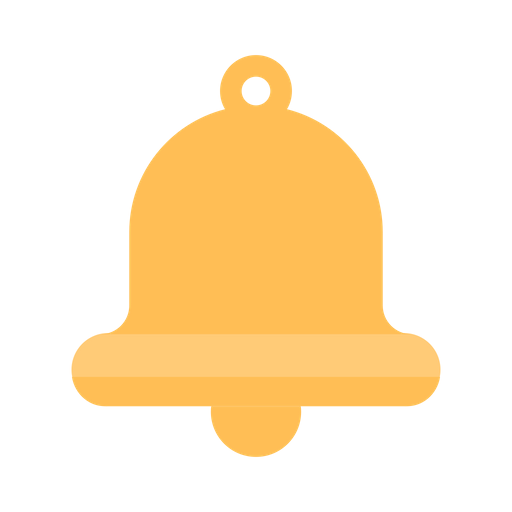
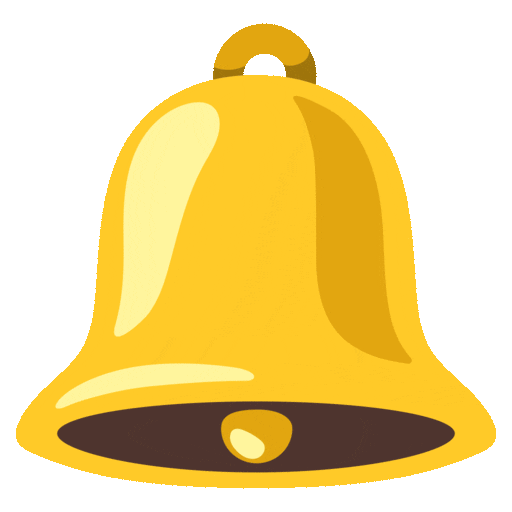
bellllll

diff --git a/content.js b/content.js
@@ -9,75 +9,39 @@ if (document.readyState !== 'complete') {
     jiraSearch();
 }
 
+
+function jiraSearch() {
+    console.log('Window loaded');
+    chrome.storage.local.get(['notifyMode']).then((result) => {
+        console.log("Notify mode active?", result.notifyMode.modeActive);
+        if (result.notifyMode.modeActive) {
+            try{
+                updateHTML();
+            } catch (e) {
+                console.error("Could not finish updating page content: ", e)
+            }
+            
+            notifyMode();
+        } else {
+            console.log('Notify mode not active. Redirecting to default page...');
+        }
+    });
+}
+
+
+
+
 function notifyMode() {
     console.log('Entering notifyMode function');
+
+    // Variable to track if notification has already been sent
+    var notificationSent = false;
 
     var timeoutId;
     var observer;
     var refreshInterval = 30000; // How long it takes for it to recheck for new tickets
-    var originalTitle = document.title;
-    var notifyModeTitle = 'Tab is in Notify Mode';
-    var toggleTitle = false; // Flag to toggle between original and notify mode titles
-    var toggleTitleInterval; // Variable to store the interval ID for title toggling
-    
 
-    function toggleTitleText() {
-        document.title = toggleTitle ? originalTitle : notifyModeTitle;
-        toggleTitle = !toggleTitle;
-    }
-
-    function processSearchResults() {
-        console.log('Processing search results...');
-
-        // Process the search results here
-        var liElements = document.querySelectorAll('.issue-list li');
-        chrome.runtime.sendMessage({ type: 'resultfound', data: liElements.length });
-
-        chrome.storage.local.get(["exclusion"], function (result) {
-            if (result.exclusion) {
-                console.log('Retrieved exclusion:', result.exclusion);
-                exclusionAmount = result.exclusion;
-                if (liElements.length > exclusionAmount) {
-                    console.log(`New ticket found (${liElements.length} > ${exclusionAmount})`);
-                    document.title = 'ALERT: New Ticket Found!';
-
-                    // Prompt the user with a popup
-                    var userResponse = false;
-
-                    function closePrompt() {
-                        clearInterval(promptInterval);
-
-                        if (userResponse) {
-                            chrome.storage.local.set({ "notifyMode": { modeActive: false } });
-                            window.location.href = document.getElementsByClassName('splitview-issue-link')[0].href;
-                        } else {
-                            console.log('User declined to continue or the timeout expired.');
-                        }
-                    }
-
-                    // Display the prompt and handle user response
-                    var promptInterval = setInterval(function () {
-                        userResponse = window.confirm('A new ticket has been found. Would you like to open the latest ticket? NOTE: This will end notify mode.');
-                        closePrompt();
-                    }, 100);
-
-                    // Clear the title toggling interval if a new ticket is found
-                    // bell.svg
-
-                    clearInterval(toggleTitleInterval);
-                } else {
-                    console.log('No new tickets found');
-                    // Reset the toggleTitle flag if no new ticket is found
-                    toggleTitle = false;
-                    // Clear the title toggling interval
-                    clearInterval(toggleTitleInterval);
-                    // Start the interval for title toggling if not already started
-                    toggleTitleInterval = setInterval(toggleTitleText, 2000);
-                }
-            }
-        });
-    }
-
+    // Initialize the observer here
     observer = new MutationObserver(function (mutations) {
         mutations.forEach(function (mutation) {
             if (mutation.addedNodes.length > 0) {
@@ -92,25 +56,72 @@ function notifyMode() {
     if (elements.length > 0) {
         if (document.getElementsByClassName('issue-list')[0].getElementsByTagName('li').length === 0) {
             observer.observe(elements[0], { childList: true, subtree: true });
-            // Clear the title toggling interval
-            clearInterval(toggleTitleInterval);
-            // Start the interval for title toggling if not already started
-            toggleTitleInterval = setInterval(toggleTitleText, 2000);
         } else {
             console.log('Issue list already populated');
             processSearchResults();
         }
     } else {
-        
-        
         console.log('No results container found');
     }
+
+    function processSearchResults() {
+        
+        console.log('Processing search results...');
+        // Process the search results here
+        var liElements = document.querySelectorAll('.issue-list li');
+
+        chrome.storage.local.get(["exclusion"], function (result) {
+            if (result.exclusion) {
+                console.log('Retrieved exclusion:', result.exclusion);
+                exclusionAmount = result.exclusion;
+                if (liElements.length > exclusionAmount && !notificationSent) {
+                    console.log(`New ticket found (${liElements.length} > ${exclusionAmount})`);
+
+                    // Send a message to the background script
+                    chrome.runtime.sendMessage({ type: 'resultfound' });
+                    var audio = new Audio(chrome.runtime.getURL('notif1.mp3 '));
+                    audio.play();
+
+                    // Set the notificationSent flag to true
+                    notificationSent = true;
+
+                    // Prompt the user with a popup
+                    var userResponse = false;
+                    
+                    // Prompt the user with a popup
+                    var userResponse = false;
+
+                    function closePrompt() {
+                        clearInterval(promptInterval);
+
+                        if (userResponse) {
+                            // Set the notificationSent flag to true
+
+                            chrome.storage.local.set({ "notifyMode": { modeActive: false } });
+                            window.location.href = document.getElementsByClassName('splitview-issue-link')[0].href;
+                        } else {
+                            console.log('User declined to continue or the timeout expired.');
+                        }
+                    }
+
+                    // Display the prompt and handle user response
+                    var promptInterval = setInterval(function () {
+                        userResponse = window.confirm('A new ticket has been found. Would you like to open the latest ticket? NOTE: This will end notify mode.');
+                        closePrompt();
+                    }, 100);
+                } else {
+                    console.log('No new tickets found or notification already sent');
+                }
+            }
+        });
+    }
+
+    
 
     // Set the refresh interval outside the if condition
     setInterval(function () {
         console.log('Refreshing page...');
         // Clear all intervals and timeouts
-        clearInterval(toggleTitleInterval);
         clearTimeout(timeoutId);
         location.reload(true);
     }, refreshInterval);
@@ -121,40 +132,12 @@ function notifyMode() {
             console.log('Page is visible, triggering search results processing...');
             // Page is visible, trigger the search results processing
             processSearchResults();
-        }
-    });
-}
-
-function jiraSearch() {
-    console.log('Window loaded');
-    chrome.storage.local.get(['notifyMode']).then((result) => {
-        console.log("Notify mode active?", result.notifyMode.modeActive);
-        if (result.notifyMode.modeActive) {
-            try{
-                updateHTML();
-            } catch {}
-            
-            notifyMode();
         } else {
-            // window.location.href = 'https://jira.benco.com/issues/?jql=project = BEN AND status = Untriaged AND assignee in (EMPTY)'
-            console.log('Notify mode not active. Redirecting to default page...');
+            console.error("Could not process result: Page did not load in alloted time.")
         }
     });
 }
 
-function updateHTML() {
-    document.querySelector(".no-results.no-results-message").style.backgroundImage = `url(${chrome.runtime.getURL('bell.svg')})`;
-    document.getElementById("header").remove();
-    document.getElementById("navigator-sidebar").remove();
-    document.getElementsByClassName("issue-search-header")[0].remove();
-    document.getElementsByClassName("navigator-sidebar collapsed")[0].remove();
-    document.querySelector(".no-results.no-results-message h2").innerHTML = "You are in notify mode. You will hear a ding when we find a ticket.";
-    document.querySelector(".no-results.no-results-message p").innerHTML = 'Nothing to see here.';
-    document.querySelector(".navigator-content.empty-results").style.display = "flex";
-    document.querySelector(".navigator-content.empty-results").style.alignItems = "center";
-    document.querySelector(".navigator-content.empty-results").style.justifyContent = "center";
-    document.querySelectorAll('[rel="shortcut icon"]')[0].href = chrome.runtime.getURL('icon.png');
-}
 
 function jiraBrowse() {
     // Get the div with the ID customfield-panel-1
@@ -163,6 +146,32 @@ function jiraBrowse() {
     var div1 = document.querySelector('.module.toggle-wrap');
     div1.insertAdjacentHTML('afterend', `<div class="module toggle-wrap"><div class="mod-header"><button class="aui-button toggle-title" aria-label="Jira+" aria-controls="Jira+-module" aria-expanded="true" resolved=""><svg xmlns="http://www.w3.org/2000/svg" width="14" height="14"><g fill="none" fill-rule="evenodd"><path d="M3.29175 4.793c-.389.392-.389 1.027 0 1.419l2.939 2.965c.218.215.5.322.779.322s.556-.107.769-.322l2.93-2.955c.388-.392.388-1.027 0-1.419-.389-.392-1.018-.392-1.406 0l-2.298 2.317-2.307-2.327c-.194-.195-.449-.293-.703-.293-.255 0-.51.098-.703.293z" fill="#344563"></path></g></svg></button><h4 class="toggle-title" id="details-module-label">Jira+</h4><ul class="ops"></ul></div><div class= "mod-content"><div id="customfieldmodule"><div class="aui-tabs horizontal-tabs" id="customfield-tabs" role="application"><div class=" active-pane"> <ul class="property-list"> <li id="rowForcustomfield_12210" class="item"> <div class="wrap"> <strong title="Account Number" class="name"> <label for="customfield_12210">Ticket History:</label> </strong> <div data-fieldtype="textfield" class="value"> <a id="ticket-history" href='https://jira.benco.com/issues/?jql=project = BEN AND "Account Number" ~ "${acctNum}" ORDER BY created DESC'>Click Here</a> </div> </div> </li> <li id="rowForcustomfield_12210" class="item"> <div class="wrap"> <strong title="Account Number" class="name"> <label for="customfield_12210">Placeholder</label> </strong> <div data-fieldtype="textfield" class="value"> placeholder </div> </div> </li> <li id="rowForcustomfield_12210" class="item"> <div class="wrap"> <strong title="Account Number" class="name"> <label for="customfield_12210">Placeholder</label> </strong> <div data-fieldtype="textfield" class="value"> placeholder </div> </div> </li> <li id="rowForcustomfield_12210" class="item"> <div class="wrap"> <strong title="Account Number" class="name"> <label for="customfield_12210">Place holder</label> </strong> <div data-fieldtype="textfield" class="value"> placeholder </div> </div> </li>   </ul> </div></div></div></div></div>`);
     document.getElementById('ticket-history').onclick = function(){chrome.storage.local.set({ "notifyMode": { modeActive: false } });}
+}
+
+function updateHTML() {
+    document.getElementsByClassName("issue-search-header")[0].remove();
+    document.getElementById("header").remove();
+    document.getElementById("navigator-sidebar").remove();
+    document.getElementsByClassName("navigator-sidebar collapsed")[0].remove();
 
 
+
+    var results = document.getElementsByClassName("simple-issue-list"); // Check if there are search results
+    console.log(results.length)
+    if (results.length === 0) {
+        document.querySelector(".no-results.no-results-message").style.backgroundImage = `url(${chrome.runtime.getURL('bell.png')})`;
+        document.querySelector(".no-results.no-results-message h2").innerHTML = "You are in notify mode. You will hear a ding when we find a ticket.";
+        document.querySelector(".no-results.no-results-message p").innerHTML = 'Nothing to see here.';
+        document.querySelector(".navigator-content.empty-results").style.display = "flex";
+        document.querySelector(".navigator-content.empty-results").style.alignItems = "center";
+        document.querySelector(".navigator-content.empty-results").style.justifyContent = "center";
+        document.querySelectorAll('[rel="shortcut icon"]')[0].href = chrome.runtime.getURL('icon.png')
+    } else {
+        document.getElementsByClassName("inline-issue-create-container")[0].remove();
+        document.getElementsByClassName("pagination-view")[0].remove();
+        document.getElementsByClassName("detail-panel")[0].remove();
+        document.getElementsByClassName("ui-sidebar")[0].remove();
+        document.getElementsByClassName("search-results")[0].insertAdjacentHTML("afterend", '<div class="no-results no-results-message" style="background-image: url(&quot;chrome-extension://nfelnemkdibpebjbbmeloldodgelgiel/bell.gif&quot;); margin-top: 10%;"><h2>We found a ticket!!</h2><p class="no-results-hint">Time to wake up.</p></div>')
+        console.log("pushing")
+    }
 }

diff --git a/background.js b/background.js
@@ -1,96 +1,49 @@
-// Function to listen for notify message
-function listenForNotify() {
-    console.log('BG: Listening for notify message');
-    chrome.runtime.onMessage.addListener(function (message, sender, sendResponse) {
-        if (message.type === 'notify') {
-            console.log('BG: Notify button was pressed');
-            var notifyProperties = { modeActive: null, notifyTab: null};
-            notifyProperties.modeActive = true;
-            notifyProperties.notifyTab = message.data;
-            console.log('BG: Notify properties', notifyProperties);
-            chrome.storage.local.set({ "notifyMode": notifyProperties });
-            console.log(message.data)
-            chrome.browserAction.setIcon({ path: 'icon.png', tabId: message.data})
-            notifyMode();
+chrome.runtime.onMessage.addListener(function (message, sender, sendResponse) { // 
+    if (message.type === 'notify') {
+        console.log('BG: Notify button was pressed');
+        var notifyProperties = { modeActive: null, notifyTab: null};
+        notifyProperties.modeActive = true;
+        notifyProperties.notifyTab = message.data;
+        console.log('BG: Notify properties', notifyProperties);
+        chrome.storage.local.set({ "notifyMode": notifyProperties });
+        console.log(message.data)
+        try {
+            chrome.browserAction.setIcon({ path: 'icon.png', tabId: message.data});
+        } catch (e) {
+            console.error(e);
         }
-    });
-}
-
-// Function to handle notify mode
-function notifyMode() {
-    let exclusionAmount = 0; // Amount of tickets to exclude from the new ticket notifier. I.e. if amount is 3, 4 tickets must be in to notify
-    console.log('BG: Entered notify mode');
-    // Listen for resultfound message
-    chrome.runtime.onMessage.addListener((message, sender, sendResponse) => {
-        if (message.type === 'resultfound') {
-            let resultLength = message.data;
-            console.log(`BG: Result found! ${resultLength} tickets`);
-            chrome.storage.local.get(["exclusion"], function (result) {
-                if (result.exclusion) {
-                    console.log('BG: Retrieved exclusion:', result.exclusion);
-                    exclusionAmount = result.exclusion;
-                    if (resultLength > exclusionAmount) {
-                        console.log(`BG: ${resultLength} tickets found, and ${exclusionAmount} ticket(s) excluded. Creating notification and playing sound.`);
-                        createNotification();
-                        playSound();
-                    }
-                }
-            });
-        }
-    });
-}
-
-// Function to create notification
-function createNotification() {
-    let opt = {
-        type: "basic",
-        title: "Jira+",
-        message: "A new ticket is in!",
-        iconUrl: "icon.png"
-    };
-    chrome.notifications.create("notificationName", opt, function () {
-        console.log('BG: Notification created');
-        // Placeholder comment: Handle notification creation callback if needed
-    });
-}
-
-// Function to play sound
-async function playSound(source = 'notif1.mp3') {
-    // Retrieve stored volume value from long term storage
-    chrome.storage.local.get(["volume"], function (result) {
-        let volume = result.volume || 0.5; // Set default volume to 0.5 if not found in storage
-        console.log(`BG: Volume set to ${volume}`);
-        // Create the offscreen document if it doesn't already exist
-        createOffscreen().then(() => {
-            console.log('BG: Sending message to play sound');
-            chrome.runtime.sendMessage({ play: { source, volume } });
-        });
-    });
-}
-
-// Create the offscreen document if it doesn't already exist
-async function createOffscreen() {
-    if (await chrome.offscreen.hasDocument()) return;
-    console.log('BG: Creating offscreen document');
-    await chrome.offscreen.createDocument({
-        url: 'offscreen.html',
-        reasons: ['AUDIO_PLAYBACK'],
-        justification: 'testing' // Placeholder comment: Provide specific details for using the API
-    });
-}
-
-// Check the value of notifyMode in storage
-chrome.storage.local.get(['notifyMode']).then((result) => {
-    console.log('BG: Notify mode data retrieved from storage:', result.notifyMode);
-    if (typeof(result === "undefined")) {
-        console.log('BG: Notify mode not found in storage. Initiating listener.');
-        listenForNotify();
-    }
-    if (result.notifyMode.modeActive === false || result.notifyMode.modeActive === null) {
-        listenForNotify();
-    }
-    if (result.notifyMode.modeActive) {
-        console.log('BG: Notify mode active. Initiating notifyMode.');
-        notifyMode();
     }
 });
+
+
+chrome.runtime.onMessage.addListener((message, sender, sendResponse) => {
+    if (message.type === 'resultfound') {
+        console.log("TEST")
+        console.log(`BG: Result found!`);
+
+        chrome.tabs.update(result.notifyMode.tabId, {active: true});
+        // createNotification();
+
+        // playSound();
+    }
+});
+
+
+// Function to create notification
+// function createNotification() {
+//     let opt = {
+//         type: "basic",
+//         title: "Jira+",
+//         message: "A new ticket is in!",
+//         iconUrl: "icon.png"
+//     };
+//     chrome.notifications.create("notificationName", opt, function () {
+//         console.log('BG: Notification created');
+//         // Placeholder comment: Handle notification creation callback if needed
+//     });
+// }
+
+// Create the offscreen document if it doesn't already exist
+
+
+
